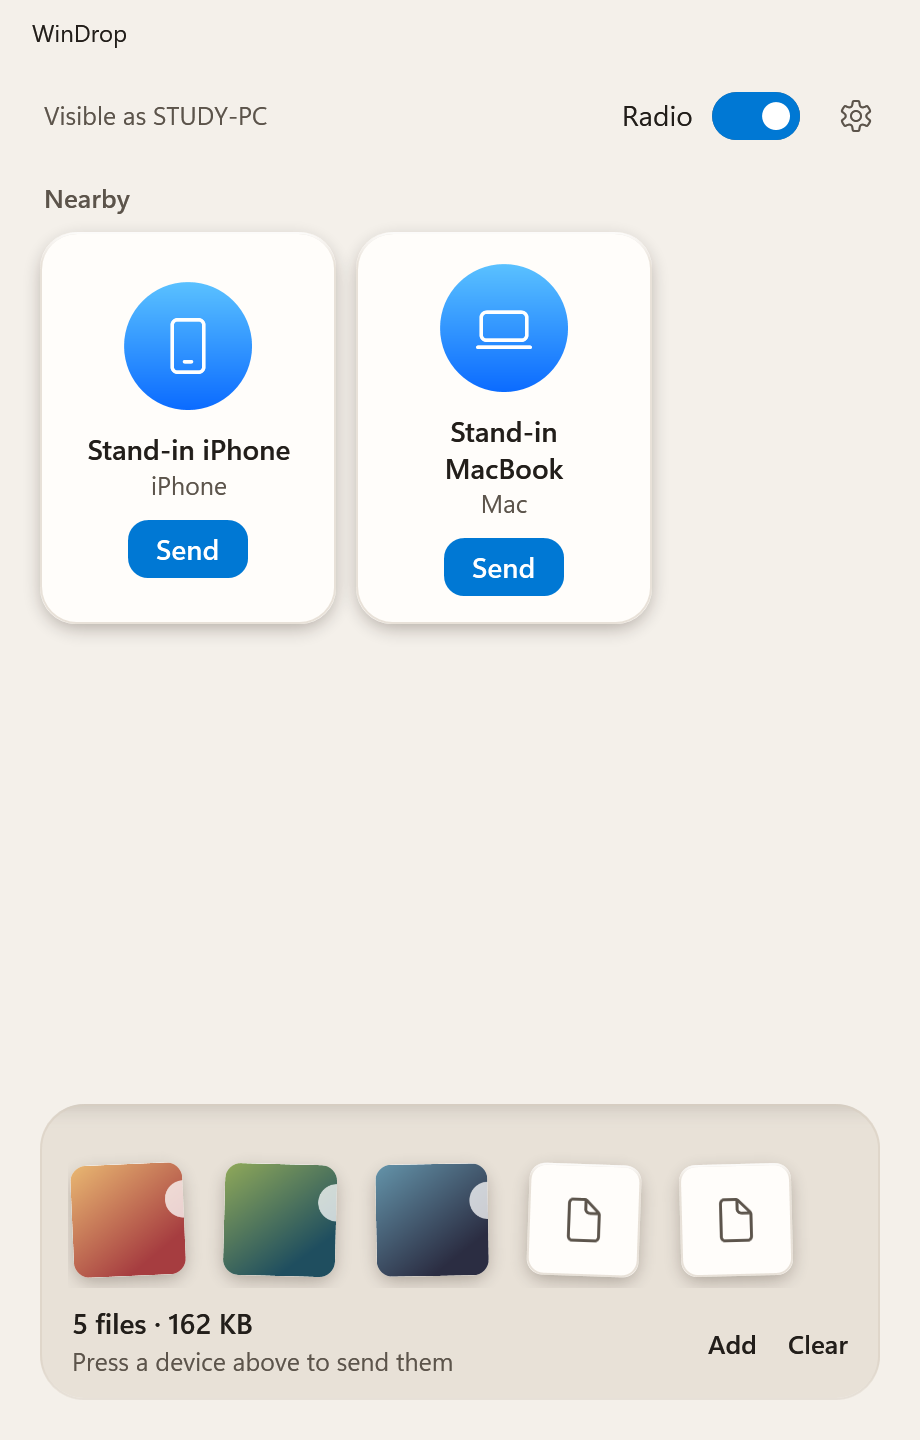
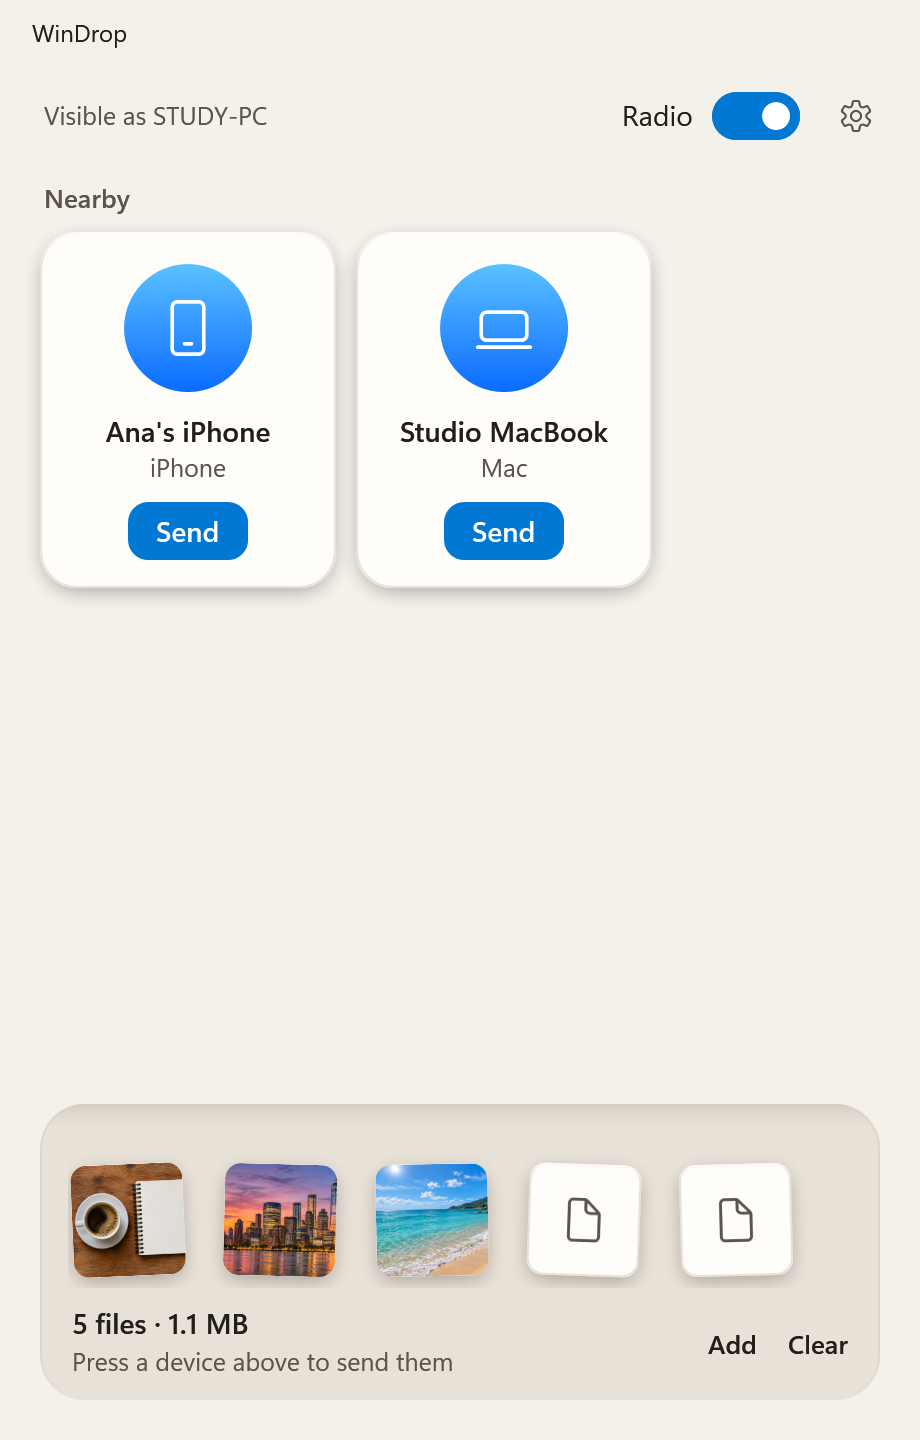
Renders with the real sample files; the right-click entry documented

diff --git a/app/src/Dev/Stage.cs b/app/src/Dev/Stage.cs
@@ -268,8 +268,8 @@ public static class Stage
     private static void Devices(World world)
     {
         Up(world);
-        world.Engine.Say(new { @event = "peer", id = "a", name = "Stand-in iPhone", model = "iPhone14,2" });
-        world.Engine.Say(new { @event = "peer", id = "b", name = "Stand-in MacBook", model = "MacBookPro18,3" });
+        world.Engine.Say(new { @event = "peer", id = "a", name = "Ana's iPhone", model = "iPhone14,2" });
+        world.Engine.Say(new { @event = "peer", id = "b", name = "Studio MacBook", model = "MacBookPro18,3" });
     }
 
     private static void Sending(World world, string[] files, object said)
@@ -282,7 +282,7 @@ public static class Stage
 
     private static void Asked(World world, bool waits) => world.Engine.Say(new
     {
-        @event = "asked", id = "r1", sender = "Stand-in iPhone", model = "iPhone14,2",
+        @event = "asked", id = "r1", sender = "Ana's iPhone", model = "iPhone14,2",
         files = new[]
         {
             new { name = "IMG_0001.jpg", size = 4_200_000, type = "public.jpeg" },
@@ -384,7 +384,7 @@ public static class Stage
             world.Engine.Say(new { @event = "answered", id = "r1", how = "declined" });
             world.Engine.Say(new
             {
-                @event = "asked", id = "r2", sender = "Stand-in MacBook", model = "MacBookPro18,3",
+                @event = "asked", id = "r2", sender = "Studio MacBook", model = "MacBookPro18,3",
                 files = Array.Empty<object>(), links = 1, waits = true,
             });
             world.Model.Incoming[0].Always!.Execute(null);
@@ -403,7 +403,7 @@ public static class Stage
         world.Model.Arrived += world.Model.Arrivals.Add;
         world.Engine.Say(new
         {
-            @event = "asked", id = "r0", sender = "Stand-in iPhone", model = "iPhone14,2", links = 0, waits = false,
+            @event = "asked", id = "r0", sender = "Ana's iPhone", model = "iPhone14,2", links = 0, waits = false,
             files = new[] { new { name = Path.GetFileName(files[0]), size = 58_706, type = "public.png" } },
         });
         world.Engine.Say(new
@@ -414,7 +414,7 @@ public static class Stage
         Asked(world, waits: true);
         world.Engine.Say(new
         {
-            @event = "asked", id = "r2", sender = "Stand-in MacBook", model = "MacBookPro18,3",
+            @event = "asked", id = "r2", sender = "Studio MacBook", model = "MacBookPro18,3",
             files = new[] { new { name = "IMG_0042.pvt", size = 0, type = "com.apple.private.live-photo-bundle" } },
             links = 0, total = 0, waits = true,
         });
@@ -469,7 +469,7 @@ public static class Stage
         world.Model.Arrived += world.Model.Arrivals.Add;
         world.Engine.Say(new
         {
-            @event = "asked", id = "r0", sender = "Stand-in iPhone", model = "iPhone14,2", links = 0, waits = false,
+            @event = "asked", id = "r0", sender = "Ana's iPhone", model = "iPhone14,2", links = 0, waits = false,
             files = new[] { new { name = Path.GetFileName(files[0]), size = 58_706, type = "public.png" } },
         });
         world.Engine.Say(new { @event = "stored", id = "r0", folder, names = new[] { Path.GetFileName(files[0]) } });
@@ -480,7 +480,7 @@ public static class Stage
         world.Engine.Say(new { @event = "send", id = "s1", state = "sending", done = 12_900_000, total = 96_100_000 });
         world.Engine.Say(new
         {
-            @event = "asked", id = "r1", sender = "Stand-in MacBook", model = "MacBookPro18,3",
+            @event = "asked", id = "r1", sender = "Studio MacBook", model = "MacBookPro18,3",
             files = new[]
             {
                 new { name = "IMG_0001.jpg", size = 4_200_000, type = "public.jpeg" },
@@ -542,6 +542,24 @@ public static class Stage
     public static string[] SampleFiles(string folder)
     {
         Directory.CreateDirectory(folder);
+        // With WINDROP_SAMPLES naming a folder of real files, the pictures show those: its images
+        // first, as the three that have thumbnails, then the rest. Five at least, or it is not used.
+        if (Environment.GetEnvironmentVariable("WINDROP_SAMPLES") is { Length: > 0 } real && Directory.Exists(real))
+        {
+            bool IsPicture(string file) => Path.GetExtension(file).ToLowerInvariant() is ".jpg" or ".jpeg" or ".png";
+            var given = Directory.GetFiles(real).OrderBy(file => !IsPicture(file)).ThenBy(Path.GetFileName).ToList();
+            if (given.Count >= 5 && given.Take(3).All(IsPicture))
+            {
+                var copies = new List<string>();
+                foreach (var file in given)
+                {
+                    var copy = Path.Combine(folder, Path.GetFileName(file));
+                    File.Copy(file, copy, overwrite: true);
+                    copies.Add(copy);
+                }
+                return [.. copies];
+            }
+        }
         (string Name, string From, string To)[] pictures =
         [
             ("stand-in-dune.png", "#E9B872", "#A63D40"), ("stand-in-sea.png", "#90A959", "#1F4E5F"),

diff --git a/README.pt-BR.md b/README.pt-BR.md
@@ -45,7 +45,7 @@ Validado em 2026-11-16, em um desktop com a MT7902 (ASUS TUF GAMING A620M-PLUS W
 |---|---|---|---|
 | ![Arquivos prontos para enviar](docs/assets/ui-holding-dark.png) | ![Pedido de recebimento](docs/assets/ui-incoming-ask-dark.png) | ![Arquivo recebido](docs/assets/ui-received-dark.png) | ![Rádio desligado](docs/assets/ui-radio-off-dark.png) |
 
-Estas quatro são renderizações do próprio aplicativo com aparelhos de exemplo (`winawdl.exe --render`), feitas com a versão atual. O tema acompanha o Windows; em claro fica assim:
+Estas quatro são renderizações do próprio aplicativo (`winawdl.exe --render`) com a versão atual: os dois aparelhos são de exemplo, os arquivos são os de amostra deste repositório. O tema acompanha o Windows; em claro fica assim:
 
 <p align="center">
   <img src="docs/assets/ui-holding-light.png" width="300" alt="Tema claro">
@@ -68,6 +68,14 @@ Um envio real, do PC para um MacBook, pelo WinDrop instalado. Os quatro arquivos
 | ![Quatro arquivos prontos para enviar](docs/assets/demo-1-segurando.png) | ![Aguardando o aceite](docs/assets/demo-2-pedindo.png) | ![Sem resposta do aparelho](docs/assets/demo-sem-resposta.png) |
 
 As três telas são capturas da janela real, com o MacBook real na lista. Depois do aceite, os quatro arquivos apareceram em Downloads do Mac com os mesmos tamanhos em bytes dos originais (323165, 435805, 386271 e 120), a 1,6 MB/s. A terceira tela é de uma tentativa anterior, com a tela do Mac apagada.
+
+### O item do botão direito
+
+O WinDrop acrescenta um item ao menu do botão direito de qualquer arquivo. É isto que o Explorer lista para um JPEG no PC de teste, lido do próprio Explorer (sem os itens de outros programas):
+
+> Abrir · Imprimir · **Enviar via AirDrop** · Copiar como caminho · Compartilhar · Recortar · Copiar · Excluir · Renomear · Propriedades
+
+No Windows 11 ele fica no menu completo, em "Mostrar mais opções" (ou Shift + botão direito): o menu curto só aceita itens de aplicativos empacotados. Vários arquivos escolhidos de uma vez caem todos na mesma janela do WinDrop. Ainda não há imagem do menu aqui: não foi possível capturá-la sem controlar a área de trabalho de quem está no PC.
 
 ## Casos de uso
 

diff --git a/README.md b/README.md
@@ -48,7 +48,7 @@ Validated on 2026-11-16 on a desktop with the MT7902 (ASUS TUF GAMING A620M-PLUS
 |---|---|---|---|
 | ![Files ready to send](docs/assets/ui-holding-dark.png) | ![An incoming request](docs/assets/ui-incoming-ask-dark.png) | ![A received file](docs/assets/ui-received-dark.png) | ![Radio off](docs/assets/ui-radio-off-dark.png) |
 
-These four are renders by the app itself with stand-in devices (`winawdl.exe --render`), made with the current version. The theme follows Windows; in light it looks like this:
+These four are renders by the app itself (`winawdl.exe --render`) with the current version: the two devices are stand-ins, the files are the sample files of this repository. The theme follows Windows; in light it looks like this:
 
 <p align="center">
   <img src="docs/assets/ui-holding-light.png" width="300" alt="Light theme">
@@ -71,6 +71,14 @@ A real send, from the PC to a MacBook, through the installed WinDrop. The four f
 | ![Four files ready to send](docs/assets/demo-1-segurando.png) | ![Waiting for the device](docs/assets/demo-2-pedindo.png) | ![No answer from the device](docs/assets/demo-sem-resposta.png) |
 
 All three are captures of the real window, with the real MacBook in the list. After it accepted, the four files were in the Mac's Downloads with the same sizes in bytes as the originals (323165, 435805, 386271 and 120), at 1.6 MB/s. The third screen is from an earlier attempt, with the Mac's screen off.
+
+### The right-click entry
+
+WinDrop adds one entry to the right-click menu of every file. This is what Explorer lists for a JPEG on the test PC, read from Explorer itself (other programs' entries left out):
+
+> Abrir · Imprimir · **Enviar via AirDrop** · Copiar como caminho · Compartilhar · Recortar · Copiar · Excluir · Renomear · Propriedades
+
+On Windows 11 it is in the full menu, under "Show more options" (or Shift + right-click): the short menu only takes entries from packaged apps. Several files chosen at once all land in the same WinDrop window. There is no picture of the menu here yet: it could not be captured without driving the desktop of the person at the PC.
 
 ## Use cases
 
